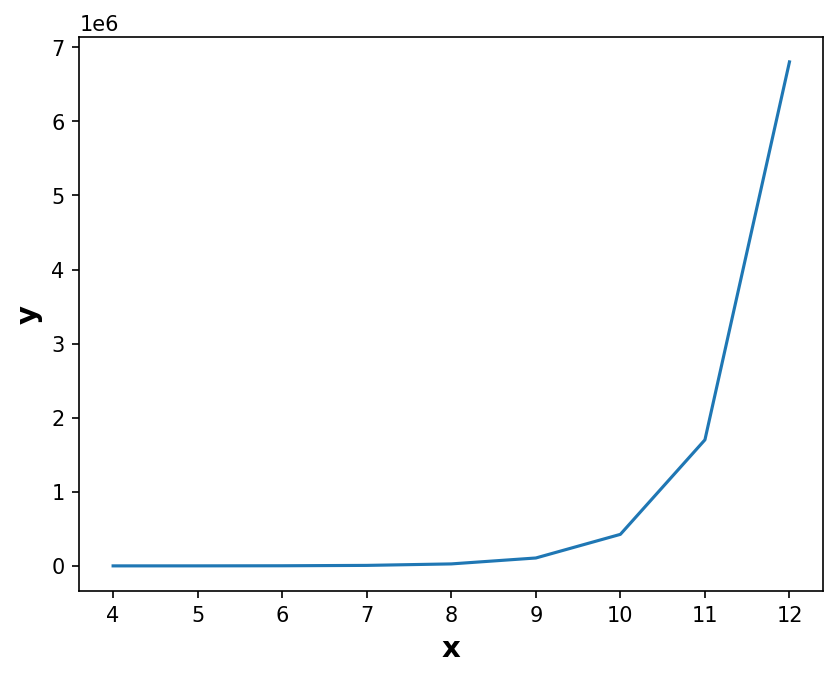
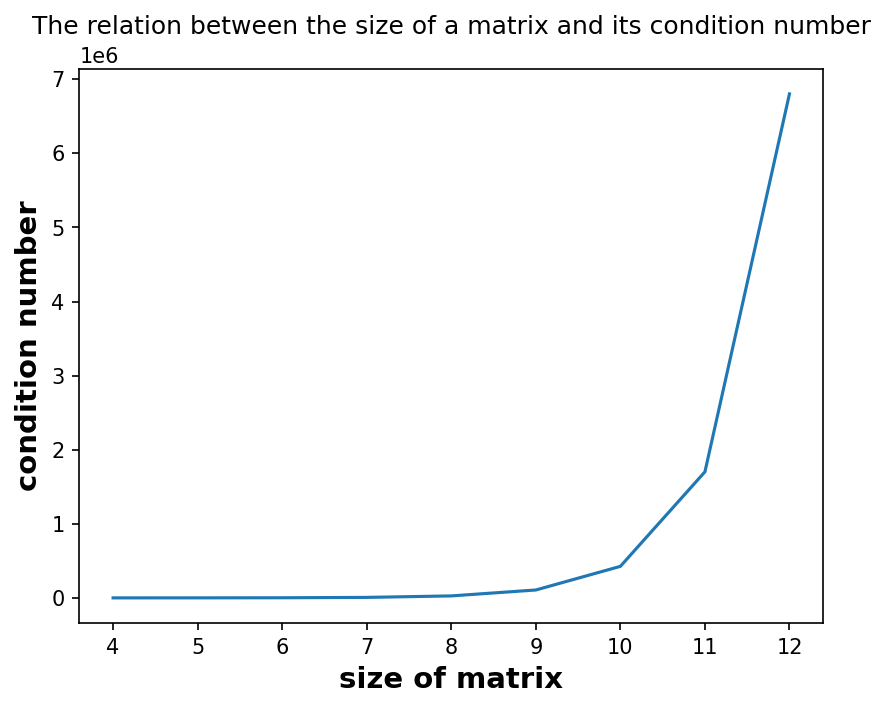
Finished week3

diff --git a/numerical_methods_1.py b/numerical_methods_1.py
@@ -1,21 +1,27 @@
 import numpy as np
 import matplotlib.pyplot as plt
+# Ik neem aan dat de functie en variable namen grotendeels zichzelf documenten als ze goed
+# benaamd zijn, als je om een of andere reden overal comments wilt hebben geef dat aub aan.
+# Ik weet dat het gebruikelijk is in academische wetenschappen om grotendeels al je code
+# te commenten, maar dat is juist omdat de gemiddelde academische wetenschapper echt heel
+# slecht is in programmeren en dus wel in taal moet uitleggen wat hun onleesbare code doet.
 
 def plot_function(x_axis, y_axis, output_name):
     fig, ax = plt.subplots()
-    ax.set_xlabel('x', fontsize=14, fontweight='bold')
-    ax.set_ylabel('y', fontsize=14, fontweight='bold')
+    ax.set_title("The relation between the size of a matrix and its condition number")
+    ax.set_xlabel('size of matrix', fontsize=14, fontweight='bold')
+    ax.set_ylabel('condition number', fontsize=14, fontweight='bold')
 
     ax.plot(x_axis, y_axis)
     plt.savefig(output_name, dpi=150, bbox_inches='tight')
 
-def estimate_alpha(x_axis, y_axis):
+def estimate_quadratic_exponent(x_axis, y_axis):
     logarithmic_condition_numbers = [np.log(element) for element in y_axis]
     coefficients = np.polyfit(x_axis, logarithmic_condition_numbers, 1)
-    scaling_factor = np.exp(coefficients[0])
-    return scaling_factor
+    quadratic_exponent = np.exp(coefficients[0])
+    return quadratic_exponent
 
-def calculate_condition_numbers(matrix_sizes):
+def calculate_condition_numbers():
     condition_numbers = []
 
     for i in range(4, 13):
@@ -32,5 +38,5 @@ y_axis = calculate_condition_numbers()
 plot_function(x_axis, y_axis, "output.png")
 
 # Opdracht (b)
-scaling_factor = estimate_alpha(x_axis, y_axis)
-print(f"The estimated scaling factor alpha is: {scaling_factor}")
+quadratic_exponent = estimate_quadratic_exponent(x_axis, y_axis)
+print(f"The estimated scaling factor alpha is: {quadratic_exponent}")
